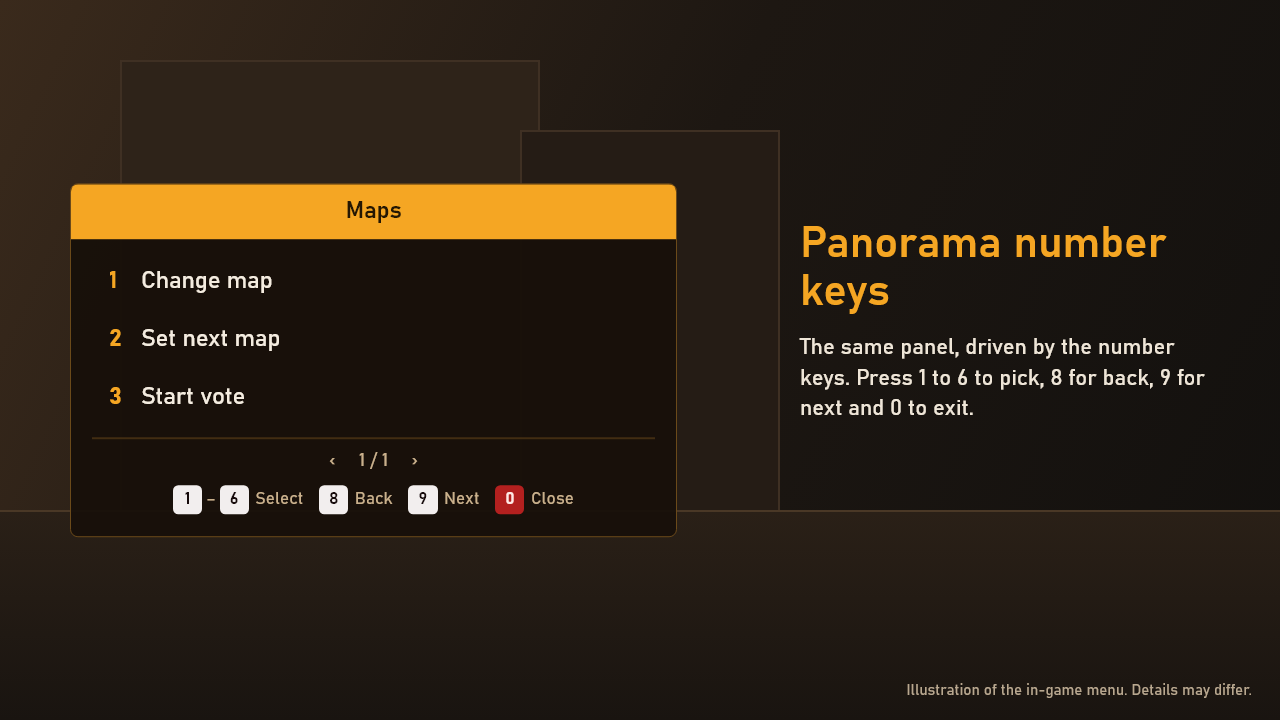
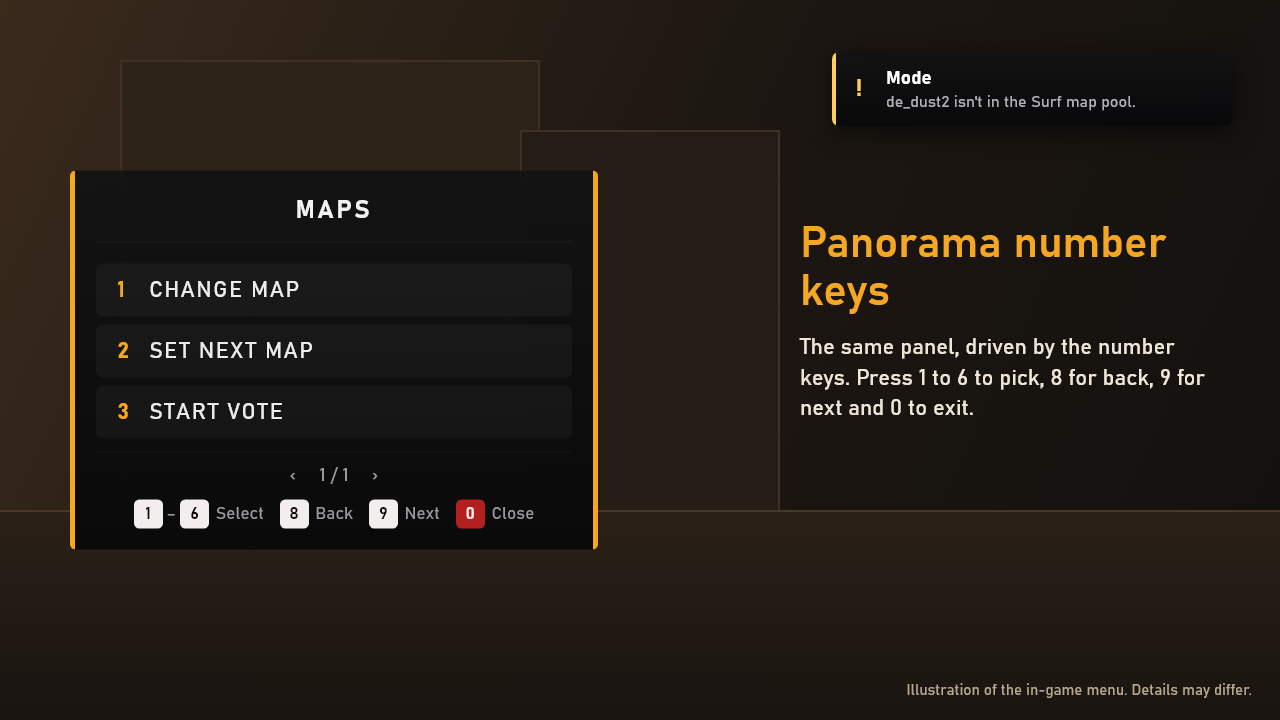
chore: hide empty menu rows, and show notifications in the mockups
Unused row slots collapse again, so the menu shrinks to its rows. The mockups show a notification in most scenes and
under the menu in the thumbnail, and the README images are redrawn from them.

diff --git a/addon/mockups/scenes.html b/addon/mockups/scenes.html
@@ -10,6 +10,8 @@ html,body{width:1280px;height:720px;overflow:hidden;background:#12100e;font-fami
 .host{position:absolute;left:70px;top:50%;transform:translateY(-50%)}
 .host>*{zoom:1.32}
 .side{position:absolute;left:800px;top:220px;width:420px}
+.ntf{position:absolute;display:flex;align-items:center;width:400px;min-height:74px;background:linear-gradient(180deg,rgba(18,18,20,.92),rgba(8,8,10,.95));border-radius:7px;box-shadow:0 6px 24px rgba(0,0,0,.55);overflow:hidden;z-index:5}.ntf::before{content:"";position:absolute;left:0;top:0;bottom:0;width:4px;background:#57e08a}.ntf.warn::before{background:#ffcf5c}.ntf .ni{width:54px;flex:none;text-align:center;font-size:24px;font-weight:700;color:#57e08a}.ntf.warn .ni{color:#ffcf5c}.ntf .nb{padding:12px 18px 12px 0}.ntf .nt{font-size:19px;font-weight:700;color:#fff}.ntf .nx{font-size:16px;color:#b0b0b4;margin-top:3px}
+.stage>.ntf{top:52px;right:48px}
 .side h1{font-size:44px;font-weight:600;color:#f5a623;line-height:1.1}
 .side p{margin-top:16px;font-size:22px;line-height:1.4;color:#efe6d8}
 .note{position:absolute;right:28px;bottom:20px;font-size:15px;color:#b8a78f}
@@ -110,6 +112,9 @@ admin:{h:'Admin panel',p:'CS2-SimpleAdmin on its own panel, in red so admin tool
   '<div class="rw"><span>Empty server wait</span><div class="val">10 min</div><div class="ar">&rsaquo;</div></div>'+
   '</div><div class="bot"><span>Back</span><span>Close</span></div></div>'}
 };
+// A notification for each scene, the way PMM shows one beside the menu
+var notes={wasd:['ok','Mode','Next mode set to Gun Game.'],mouse:['ok','Map','Changing the map to de_inferno.'],digits:['warn','Mode','de_dust2 isn\'t in the Surf map pool.'],vote:['ok','Vote','You voted aim_map.'],admin:['ok','Setting','Alltalk enabled.']};
+function note(n){return n?'<div class="ntf'+(n[0]=='warn'?' warn':'')+'"><div class="ni">'+(n[0]=='warn'?'!':'&#10003;')+'</div><div class="nb"><div class="nt">'+n[1]+'</div><div class="nx">'+n[2]+'</div></div></div>':''}
 var s=scenes[location.hash.slice(1)]||scenes.wasd;
-document.getElementById('host').innerHTML=s.m;document.getElementById('h').textContent=s.h;document.getElementById('p').textContent=s.p;
+document.getElementById('host').innerHTML=s.m;document.querySelector('.stage').insertAdjacentHTML('beforeend',note(notes[location.hash.slice(1)||'wasd']));document.getElementById('h').textContent=s.h;document.getElementById('p').textContent=s.p;
 </script></body></html>

diff --git a/addon/mockups/thumbnail.html b/addon/mockups/thumbnail.html
@@ -10,6 +10,7 @@ html,body{width:1280px;height:720px;overflow:hidden;font-family:"Bahnschrift","S
 .d{font-size:25px;color:#d8cfc2;margin-top:14px;letter-spacing:.5px}
 
 .card{position:absolute;box-shadow:0 18px 50px #000000b8}
+.ntf{position:absolute;left:450px;top:548px;width:380px;min-height:70px;display:flex;align-items:center;background:linear-gradient(180deg,rgba(18,18,20,.97),rgba(8,8,10,.98));border-radius:7px;box-shadow:0 12px 36px #000000b8;overflow:hidden;z-index:4}.ntf::before{content:"";position:absolute;left:0;top:0;bottom:0;width:4px;background:#57e08a}.ntf .ni{width:52px;flex:none;text-align:center;font-size:23px;font-weight:700;color:#57e08a}.ntf .nb{padding:11px 16px 11px 0}.ntf .nt{font-size:18px;font-weight:700;color:#fff}.ntf .nx{font-size:15px;color:#b0b0b4;margin-top:3px}
 
 .pm{left:435px;top:204px;width:410px;z-index:3;background:linear-gradient(180deg,rgba(18,18,20,.97),rgba(8,8,10,.98));border-radius:5px;overflow:hidden;color:#ececec}.pm::before,.pm::after{content:"";position:absolute;top:0;bottom:0;width:5px;background:#f5a623;z-index:2}.pm::before{left:0}.pm::after{right:0}
 .b{height:58px;padding-top:12px;color:#f2f2f2;font-size:26px;font-weight:700;letter-spacing:4px;text-transform:uppercase;display:flex;align-items:center;justify-content:center}
@@ -64,4 +65,5 @@ html,body{width:1280px;height:720px;overflow:hidden;font-family:"Bahnschrift","S
 
 <div class="card pm"><div class="b">Game Modes</div><div class="rs"><div class="r on"><span>Change mode</span><i>&rsaquo;</i></div><div class="r"><span>Set next mode</span><i>&rsaquo;</i></div><div class="r"><span>Start vote</span><i>&rsaquo;</i></div></div>
 <div class="pg"><span>&lsaquo;</span><span>1 / 1</span><span>&rsaquo;</span></div><div class="f"><span class="k">W</span><span class="o">/</span><span class="k">S</span><span class="w">Move</span><span class="k">D</span><span class="o">/</span><span class="k">E</span><span class="w">Select</span><span class="k">A</span><span class="w">Back</span><span class="k x">R</span><span class="w e">Close</span></div></div>
+<div class="ntf"><div class="ni">&#10003;</div><div class="nb"><div class="nt">Mode</div><div class="nx">Next mode set to Gun Game.</div></div></div>
 </div></body></html>

diff --git a/addon/menu_theme.css b/addon/menu_theme.css
@@ -39,10 +39,36 @@
 	visibility: collapse;
 }
 
-/* An empty row slot flashes PMM's row colour as it fills: keep it clear */
+/* PMM always has six row slots and marks unused ones k-empty. Hide those and let the menu shrink to the rows it has.
+   The row spacing moves from the slot to the item, so a slot with a hidden item takes no space. Clear, so it doesn't flash. */
 .utils-item.k-empty
 {
+	visibility: collapse;
 	background-color: #00000000;
+	border: 0px solid transparent;
+}
+
+.utils-buttons
+{
+	height: fit-children;
+}
+
+.utils-slot
+{
+	height: fit-children;
+	margin: 0px;
+}
+
+.utils-item
+{
+	margin: 4px 0px;
+}
+
+/* A dropdown that's open: PMM's own size, with the spacing above */
+.utils-slot.is-open
+{
+	height: 178px;
+	margin-bottom: -130px;
 }
 
 /* The WASD and number key footers: keycaps instead of PMM's text hint */
